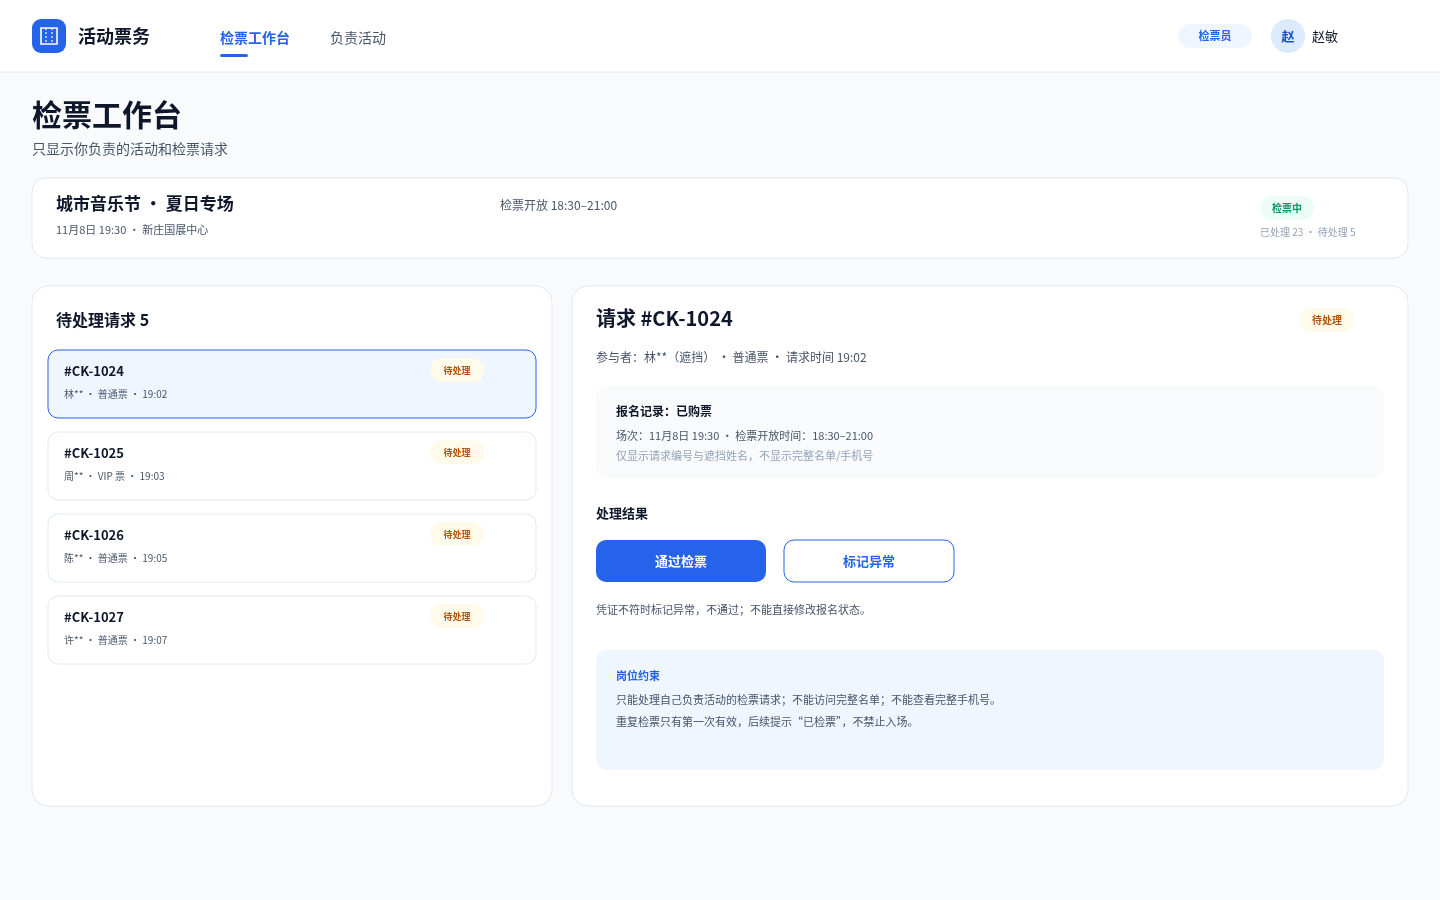
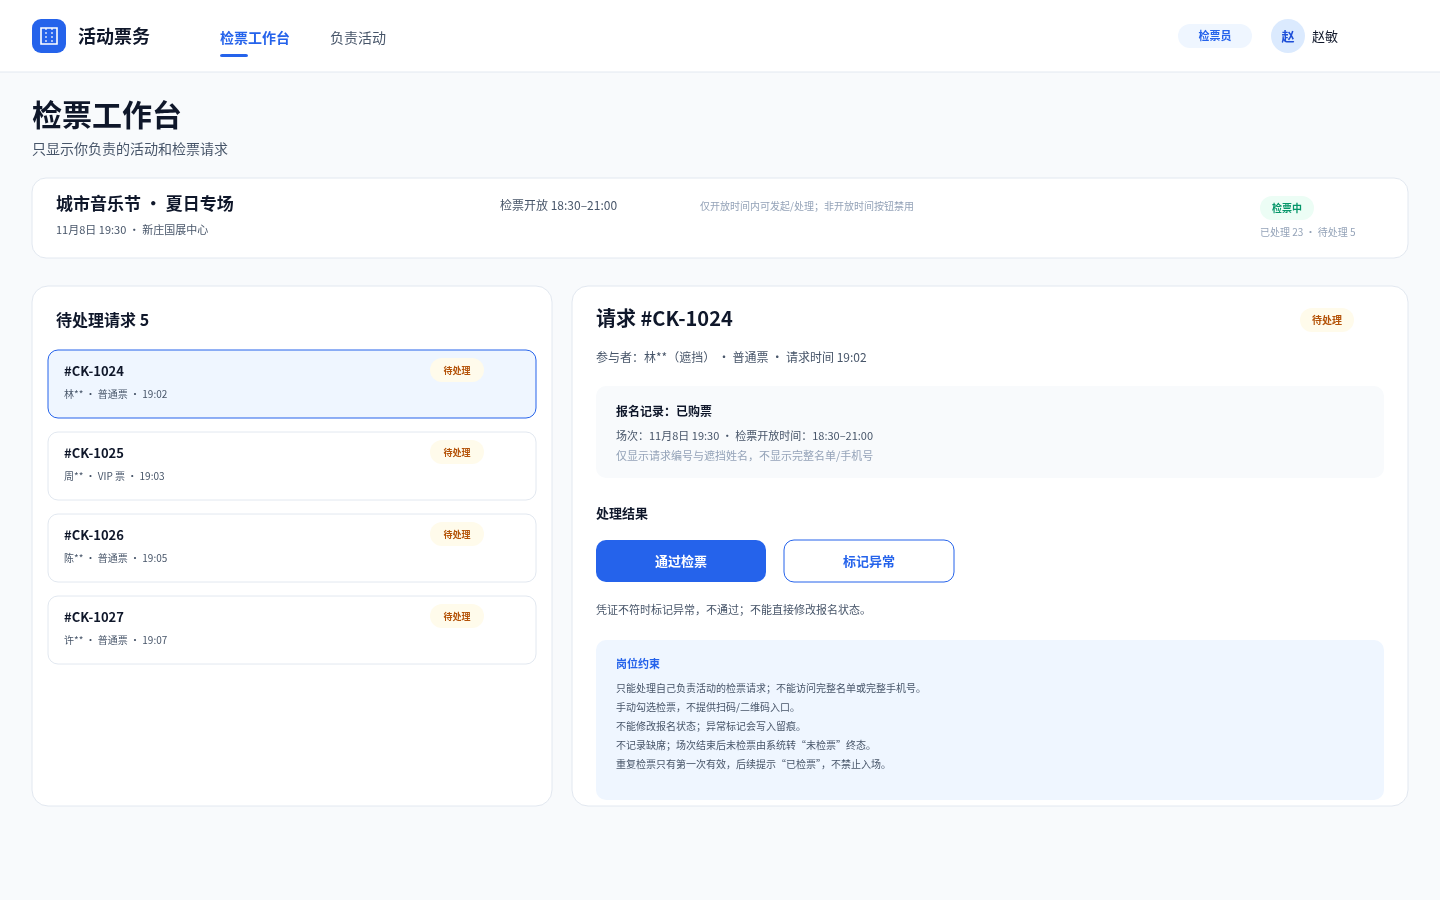
lab2: 按需求核对检票员工作台
- 补充非开放时间、手动勾选、异常留痕、缺席处理、重复检票约束
- 保留只访问负责活动、不看完整名单/手机号
- 同步需求对照与 AI 使用记录

Changed region(s): [[0.4062, 0.7156, 0.6875, 0.8711], [0.5, 0.2178, 0.625, 0.2489]]

diff --git a/lab2/UI/生成UI.py b/lab2/UI/生成UI.py
@@ -574,6 +574,7 @@ def screen_inspector():
     b.append(text(56, 210, "城市音乐节 · 夏日专场", 17, C["text"], 700))
     b.append(text(56, 234, "11月8日 19:30 · 新庄国展中心", 11, C["sub"]))
     b.append(text(500, 210, "检票开放 18:30–21:00", 12, C["sub"]))
+    b.append(text(700, 210, "仅开放时间内可发起/处理；非开放时间按钮禁用", 10, C["muted"]))
     b.append(badge(1260, 196, "检票中", C["success"], C["success_bg"], 10))
     b.append(text(1260, 236, "已处理 23 · 待处理 5", 10, C["muted"]))
     b.append(rect(32, 286, 520, 520, C["surface"], 16, C["border"]))
@@ -597,10 +598,17 @@ def screen_inspector():
     b.append(button(596, 540, 170, 42, "通过检票", "primary", 13))
     b.append(button(784, 540, 170, 42, "标记异常", "secondary", 13))
     b.append(text(596, 614, "凭证不符时标记异常，不通过；不能直接修改报名状态。", 11, C["sub"]))
-    b.append(rect(596, 650, 788, 120, C["blue_tint"], 10))
-    b.append(text(616, 680, "岗位约束", 11, C["primary"], 700))
-    b.append(text(616, 704, "只能处理自己负责活动的检票请求；不能访问完整名单；不能查看完整手机号。", 11, C["sub"]))
-    b.append(text(616, 726, "重复检票只有第一次有效，后续提示“已检票”，不禁止入场。", 11, C["sub"]))
+    b.append(rect(596, 640, 788, 160, C["blue_tint"], 10))
+    b.append(text(616, 668, "岗位约束", 11, C["primary"], 700))
+    notes = [
+        "只能处理自己负责活动的检票请求；不能访问完整名单或完整手机号。",
+        "手动勾选检票，不提供扫码/二维码入口。",
+        "不能修改报名状态；异常标记会写入留痕。",
+        "不记录缺席；场次结束后未检票由系统转“未检票”终态。",
+        "重复检票只有第一次有效，后续提示“已检票”，不禁止入场。",
+    ]
+    for i, line in enumerate(notes):
+        b.append(text(616, 692 + i * 19, line, 10, C["sub"]))
     return svg_doc("".join(b), defs_gradient())
 
 

diff --git a/lab2/杂物/AI使用记录_完整过程.md b/lab2/杂物/AI使用记录_完整过程.md
@@ -691,3 +691,30 @@
   - 问题：取消活动与强制退票是两个不同操作（前者取消整个活动，后者退单条报名），都保留并分别命名。
 - **人工修改优化后的结果**：按用户意见完成管理员审核页调整。
 - **对应 Git 提交**：`55c826c`（管理员审核核对）。
+
+---
+
+## 使用记录 35：检票员工作台需求核对
+
+- **时间**：2026-11-01
+- **使用场景**：用户要求仔细检查第八屏（检票员工作台）是否与需求一致。
+- **需求依据**：
+  - REQ-014：检票开放时间内由参与者发起请求，检票员处理；不能直接修改报名状态；
+  - REQ-015：手动勾选，不采用二维码；
+  - REQ-016：检票员不记录缺席，场次结束后系统转未检票；
+  - REQ-017：凭证不符标记异常，不通过，并写入留痕；
+  - REQ-036：重复检票只有第一次有效，后续提示“已检票”，不禁止入场；
+  - REQ-003/045：只访问负责活动的请求，不访问完整名单和完整手机号。
+- **检查发现**：
+  - 页面结构（负责活动、请求列表、详情、通过/异常）正确；
+  - 但原来没有明确写“非开放时间不能处理”“手动勾选无扫码”“异常标记写入留痕”“不记录缺席”。
+- **AI 的处理**：
+  - 横幅增加“仅开放时间内可发起/处理；非开放时间按钮禁用”；
+  - 岗位约束补充：手动勾选、异常写留痕、不记录缺席、重复检票提示；
+  - 保留“只能处理负责活动、不能修改报名状态、不能访问完整名单/手机号”；
+  - `其余六屏说明` 增加 REQ-014～017/036/003/045 对照。
+- **优点/问题**：
+  - 优点：检票员的权限边界、时间窗、异常和缺席处理都能在页面上找到依据。
+  - 问题：已处理/待处理数量是演示数据；非开放时间的按钮禁用状态在静态图中只用文字说明。
+- **人工修改优化后的结果**：按需求核对完成第八屏调整。
+- **对应 Git 提交**：待提交（检票工作台核对）。

diff --git a/lab2/UI/其余六屏说明.md b/lab2/UI/其余六屏说明.md
@@ -100,11 +100,18 @@
 
 - **角色/模块**：检票员；检票。
 - **内容**：
-  - 只显示负责的活动与检票时间窗；
+  - 只显示负责的活动与检票时间窗；非开放时间不能发起/处理；
   - 待处理请求列表：请求编号、遮挡姓名、票种、请求时间；
   - 右侧详情：报名状态、场次、检票时间窗；
   - “通过检票 / 标记异常”；
-  - 岗位约束：不能修改报名状态、不能访问完整名单、不能看完整手机号；重复检票只有第一次有效。
+  - 岗位约束：只能处理负责活动的请求；不能修改报名状态；不能访问完整名单或完整手机号；手动勾选检票，无扫码/二维码入口；异常标记写入留痕；不记录缺席；重复检票只有第一次有效。
+- **需求对照**：
+  - REQ-014：参与者在检票开放时间内发起请求，检票员处理；不能直接修改报名状态；
+  - REQ-015：手动勾选检票，不采用二维码；
+  - REQ-016：检票员不记录缺席，场次结束后由系统转“未检票”；
+  - REQ-017：凭证不符标记异常，不通过，并写入留痕；
+  - REQ-036：重复检票只有第一次有效，后续提示“已检票”，不禁止入场；
+  - REQ-003/045：只访问负责活动的请求，不访问完整名单和完整手机号。
 - **约束**：检票员只能处理负责活动的请求；凭证不符标记异常，不通过。
 - **Figma 调整**：可增加“已处理”Tab、检票时间未开放的禁用状态。
 

diff --git a/lab2/AI使用记录.md b/lab2/AI使用记录.md
@@ -122,7 +122,7 @@
 - **生成结果**：`04_我的票与退票`、`05_组织者活动管理`、`06_组织者名单与统计`、`07_管理员审核与处置`、`08_检票员工作台`、`09_审计日志与权限` 的 SVG 与 PNG 预览，以及 `其余六屏说明.md`。
 - **优点/问题**：六屏覆盖了参与者/组织者/管理员/检票员的主要任务，隐私和状态限制（手机号遮挡、检票员不看名单、统计结束后开放）都体现在界面上；但仍是静态骨架，图表、弹窗、空/加载/禁用状态和 Figma 组件化需要人工调整。
 - **人工修改**：第三屏后的登录/活动/候补修改已记录；我的票页按 R12 调整：增加候补中、已退票展示，保留“已购票”状态并补充“有效票（待检票）”，筛选合并“已取消/已退票”但卡片保留具体原因；删除退票说明中的“一单一张”。其余屏待 Figma 调整。
-- **Git**：`3d2c5d8`（其余六屏 UI）、`7d13740`（我的票状态调整）、`8880b99`（筛选分类调整）、`e5b3696`（间距与标题调整）、`6f45a10`（组织者权限核对）、`fce1b84`（名单统计核对）、`55c826c`（管理员审核核对）。
+- **Git**：`3d2c5d8`（其余六屏 UI）、`7d13740`（我的票状态调整）、`8880b99`（筛选分类调整）、`e5b3696`（间距与标题调整）、`6f45a10`（组织者权限核对）、`fce1b84`（名单统计核对）、`55c826c`（管理员审核核对）、本次检票工作台核对待提交。
 
 ---
 

diff --git a/lab2/UI/UI设计规范.md b/lab2/UI/UI设计规范.md
@@ -58,7 +58,7 @@
 | UI-05 | 组织者活动管理 | 组织者 | 活动/场次、票种、审核 | 仅自己活动；草稿/待审核/进行中/已结束；编辑资料/场次票种/申请修改/申请取消；修改范围与审批 |
 | UI-06 | 组织者名单与统计 | 组织者 | 查询统计 | 报名人数/名单/出席率/退票率；全部场次结束后开放；按活动/场次；手机号遮挡；导出不含完整手机号 |
 | UI-07 | 管理员审核与处置 | 管理员 | 管理员处置、活动 | 发布/修改/取消审核；审核意见；相关处置：取消活动/强制退票/封禁组织者/创建检票账号；举报独立 Tab |
-| UI-08 | 检票员工作台 | 检票员 | 检票 | 负责活动、请求列表、通过/异常、检票时间窗 |
+| UI-08 | 检票员工作台 | 检票员 | 检票 | 仅负责活动；请求编号/遮挡姓名；通过/异常；时间窗；手动勾选；不记录缺席；重复检票提示 |
 | UI-09 | 审计日志与权限 | 管理员 | 留痕与权限 | 按对象/操作人/时间筛选、角色可见范围 |
 
 ## 4. 角色导航
